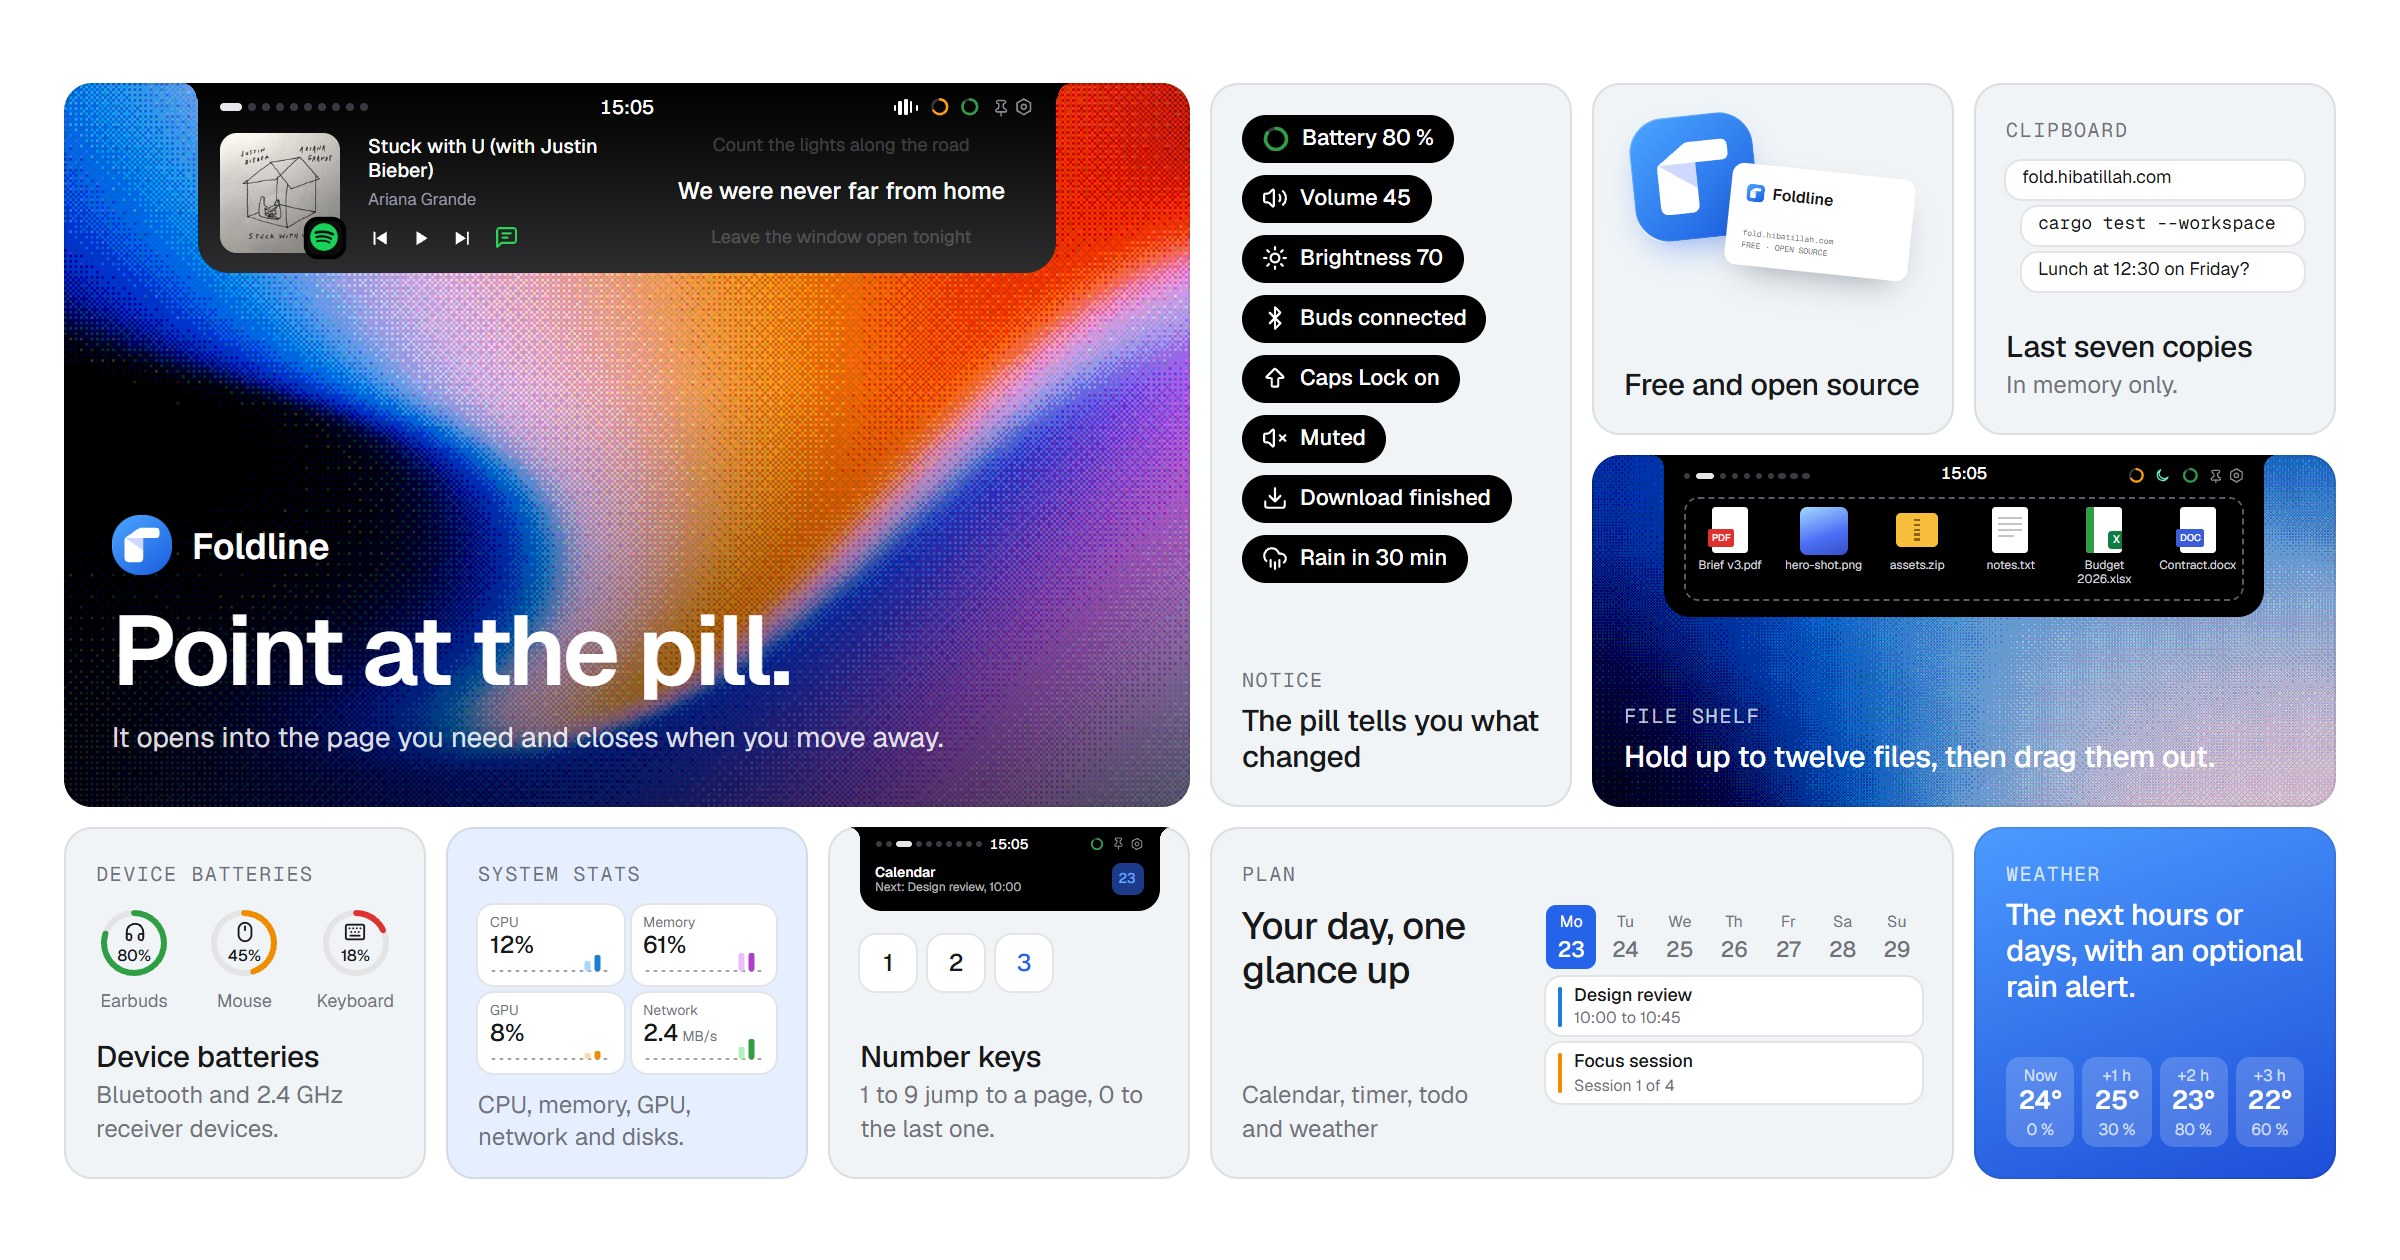
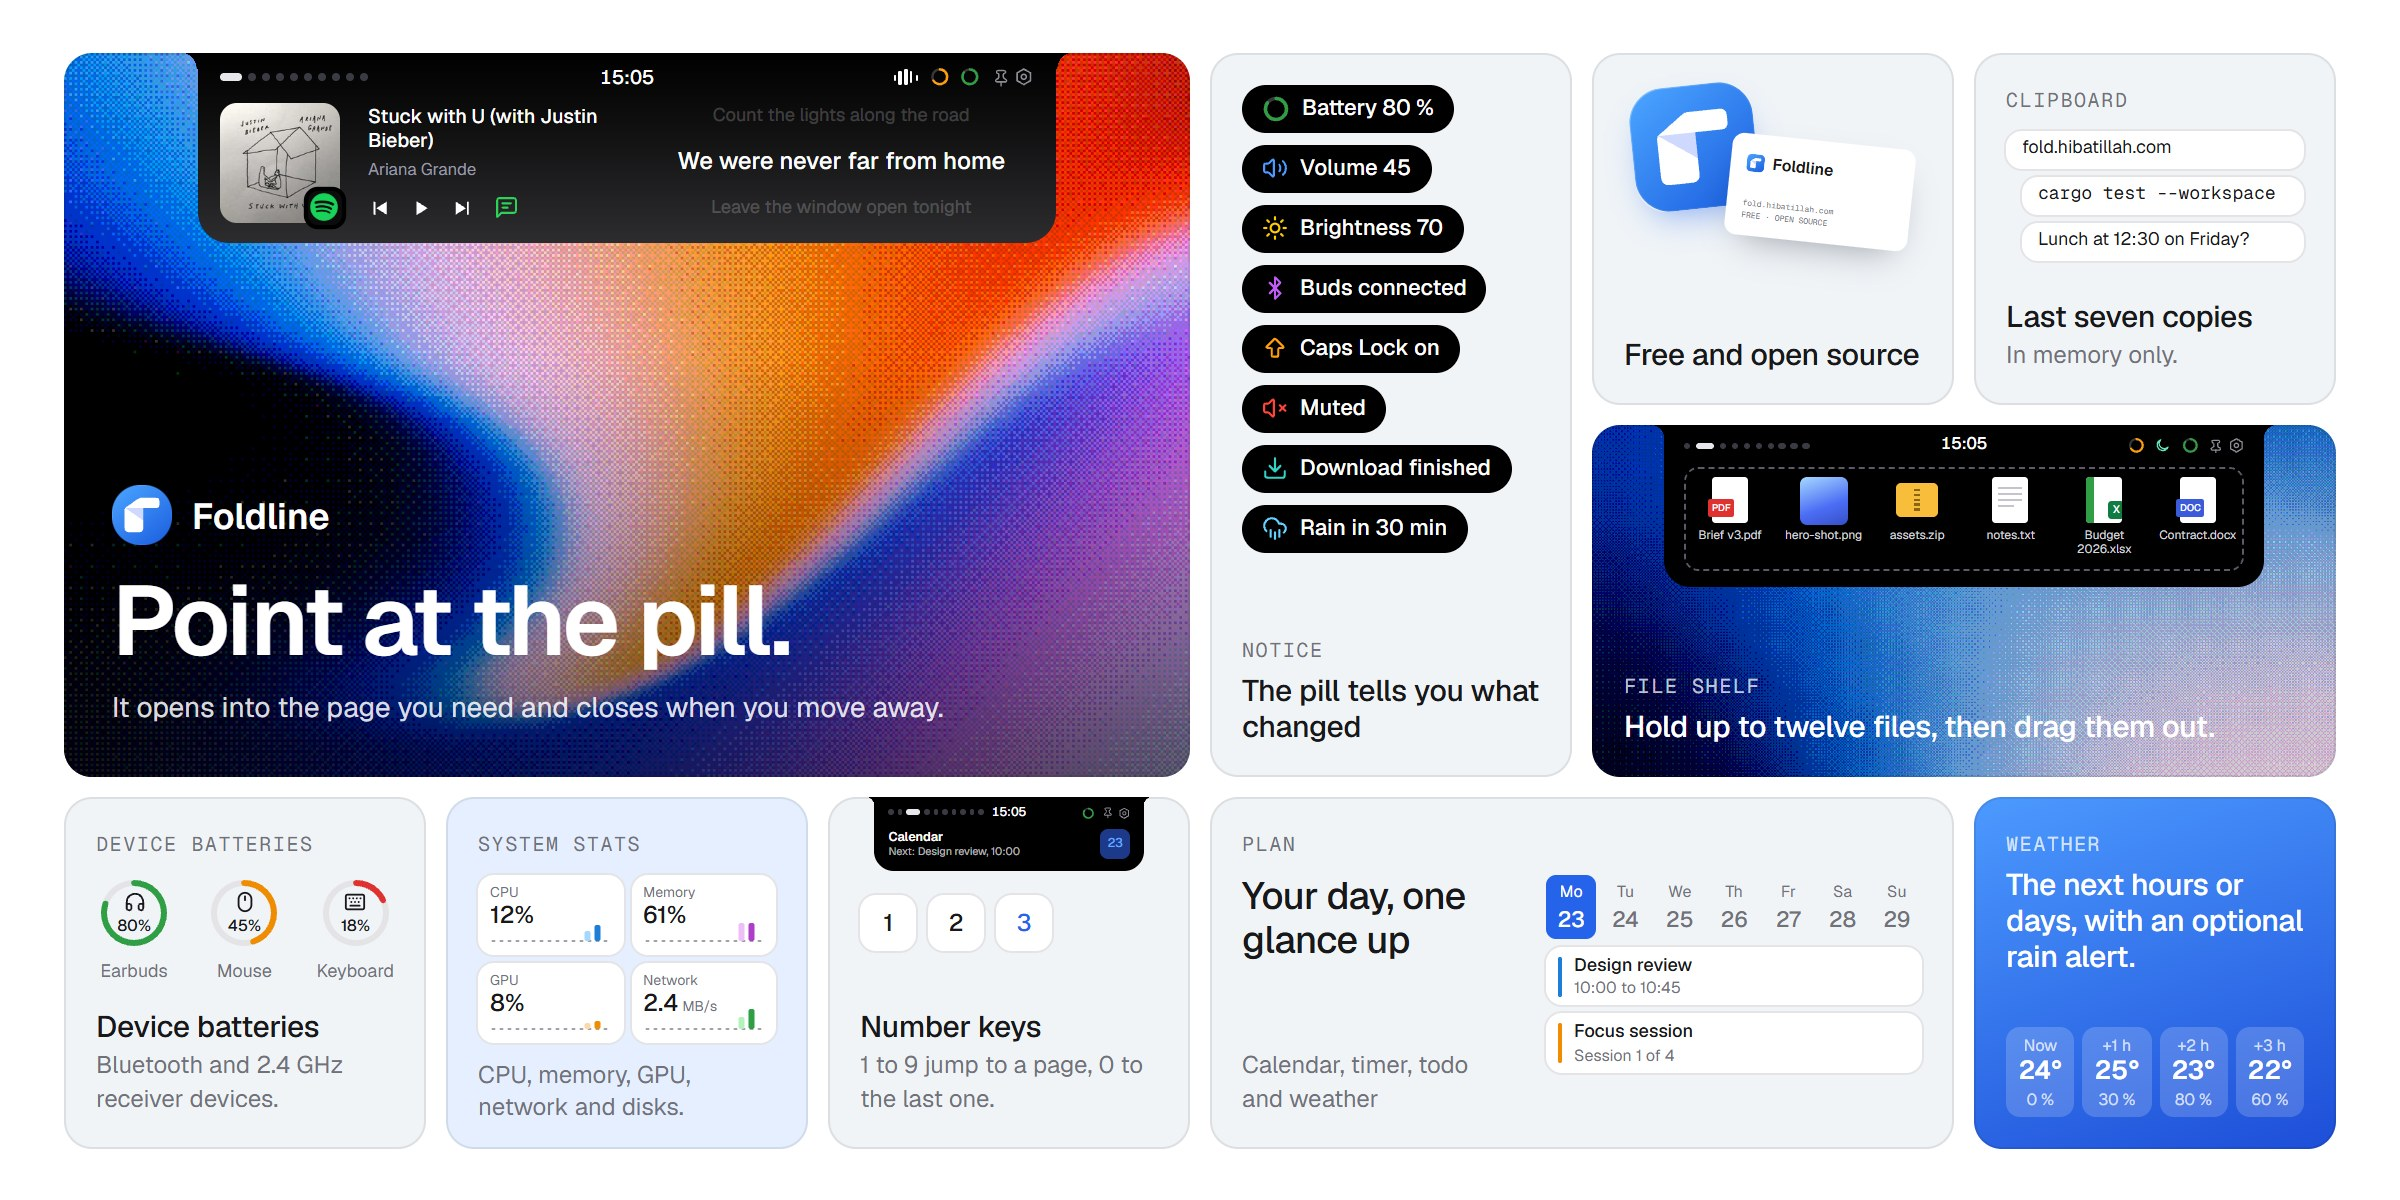
feat(website): add a 2:1 share image for Twitter's large card
- app/twitter-image.jpg is 1200 x 600, the first three rows of the feature grid
- the Twitter tags point at it with its own size; Open Graph keeps the 1200 x 630 image
- the readme describes both images

Claude-Session: https://claude.ai/code/session_01YNEa9wNq52cMTuhFs3rtqz

diff --git a/website/lib/seo.ts b/website/lib/seo.ts
@@ -18,7 +18,7 @@ export function firstSentence(text: string): string {
 	return end === -1 ? text : text.slice(0, end + 1);
 }
 
-/** The one share image of every page; `app/opengraph-image.jpg` and `twitter-image.jpg` are the same picture. */
+/** The share image of every page, 1200 × 630 (`app/opengraph-image.jpg`). Twitter's large card has its own 2:1 picture, `app/twitter-image.jpg`. */
 const shareImage = {
 	url: "/opengraph-image.jpg",
 	width: 1200,
@@ -78,14 +78,7 @@ export function pageMetadata({
 			card: "summary_large_image",
 			title: fullTitle,
 			description: shareDescription,
-			images: [
-				{
-					url: "/twitter-image.jpg",
-					width: shareImage.width,
-					height: shareImage.height,
-					alt: shareImage.alt,
-				},
-			],
+			images: [{ url: "/twitter-image.jpg", width: 1200, height: 600, alt: shareImage.alt }],
 		},
 	};
 }

diff --git a/website/README.md b/website/README.md
@@ -40,7 +40,7 @@ next-intl serves English at `/` and Indonesian at `/id`, both built statically (
 
 - `lib/site.ts` holds the public address (`https://fold.hibatillah.com`) and the author; change the address there if the domain moves.
 - `lib/seo.ts` (`pageMetadata`) gives each page its title, description, self-canonical, `hreflang` alternates (with `x-default`), Open Graph and Twitter tags. The download page is `noindex` and left out of the sitemap.
-- `app/opengraph-image.jpg` and `twitter-image.jpg` are the one share image of every page and language: the first three rows of the landing page's feature grid, 1200 × 630 at 2×, with their `.alt.txt` texts. Capture it again after the grid changes.
+- `app/opengraph-image.jpg` (1200 × 630) is the share image of every page and language, and `app/twitter-image.jpg` (1200 × 600, the 2:1 of Twitter's large card, `summary_large_image`) is the one for Twitter. Both show the first three rows of the landing page's feature grid at 2×, with their `.alt.txt` texts. `lib/seo.ts` sets both in every page's tags. Capture them again after the grid changes.
 - `lib/structured-data.ts` writes the home page JSON-LD: website, software application, author and the FAQ.
 - `app/robots.ts` and `app/sitemap.ts` are generated; `public/llms.txt` is a hand-written summary for AI assistants. Keep its facts in step with the home page.
 - Icons: `app/favicon.ico`, `app/icon.png` and `app/apple-icon.png` come from `assets/branding/tile-stable.*`.
